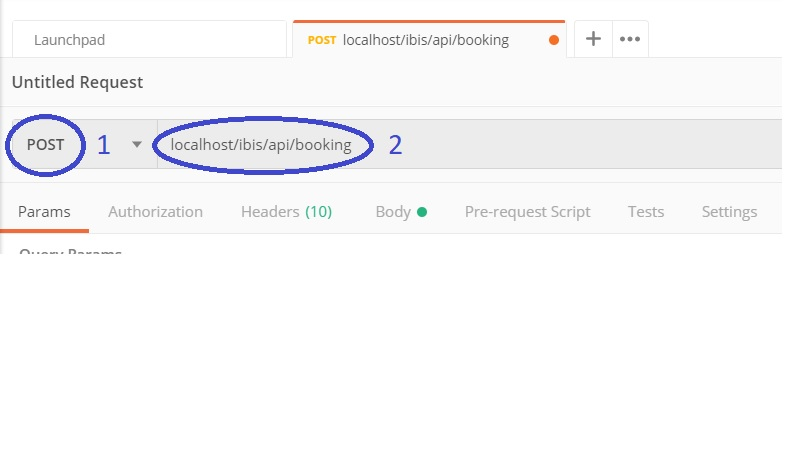
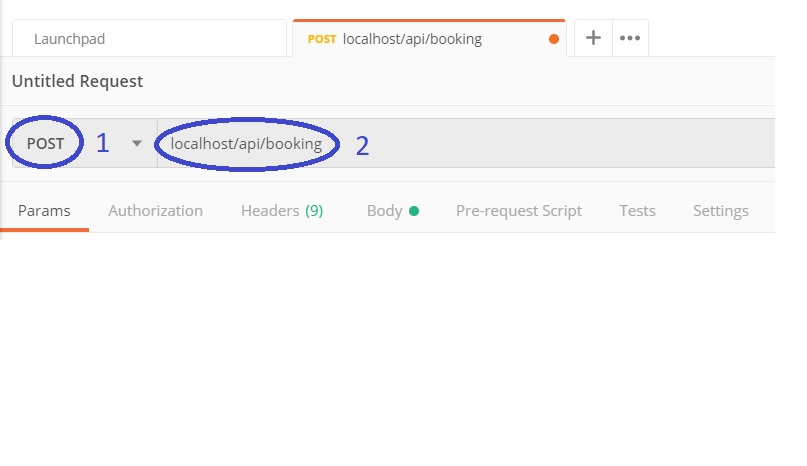
Frankify validate XML section

diff --git a/docs/source/gettingStarted/horizonsValidateBooking.rst b/docs/source/gettingStarted/horizonsValidateBooking.rst
@@ -60,7 +60,7 @@ This adapter starts with a ``<Receiver>`` that contains an ``<ApiListener>``.
 The choice for ``<ApiListener>`` makes the adapter listen to REST HTTP requests. The attribute
 ``method="POST"`` makes it listen to HTTP POST requests. The ``uriPattern="booking"`` attribute
 defines the relative path to which the adapter listens.
-The Frank!Framework extends this path to be http://localhost/ibis/api/booking.
+The Frank!Framework extends this path to be http://localhost/api/booking.
 
 4. The Frank!Framework defines a pipe ``<XmlValidatorPipe>`` that checks the incoming message against an XML Schema. We use it in our adapter. Please extend ``ConfigurationIngestBooking.xml`` as follows:
 
@@ -122,7 +122,7 @@ Your adapter listens to REST HTTP requests. If you are working under Windows, yo
    .. image:: postmanSettings.jpg
 
 #. Close this dialog.
-#. Select method POST (number 1 in the figure below) and type URL ``http://localhost/ibis/api/booking`` (number 2).
+#. Select method POST (number 1 in the figure below) and type URL ``http://localhost/api/booking`` (number 2).
 
    .. image:: postmanUrl.jpg
 
@@ -152,7 +152,7 @@ Under Linux, you can test your adapter as follows:
 #. Copy the valid booking XML listed above and (subsection "Testing (Windows)") to some file on your computer, say ``validBooking.xml``.
 #. Execute the following Linux shell command: ::
 
-     curl -i -X POST -H 'Content-Type: application/xml' -d @validBooking.xml http://localhost/ibis/api/booking
+     curl -i -X POST -H 'Content-Type: application/xml' -d @validBooking.xml http://localhost/api/booking
 
 #. The output will be something like the following: ::
 
